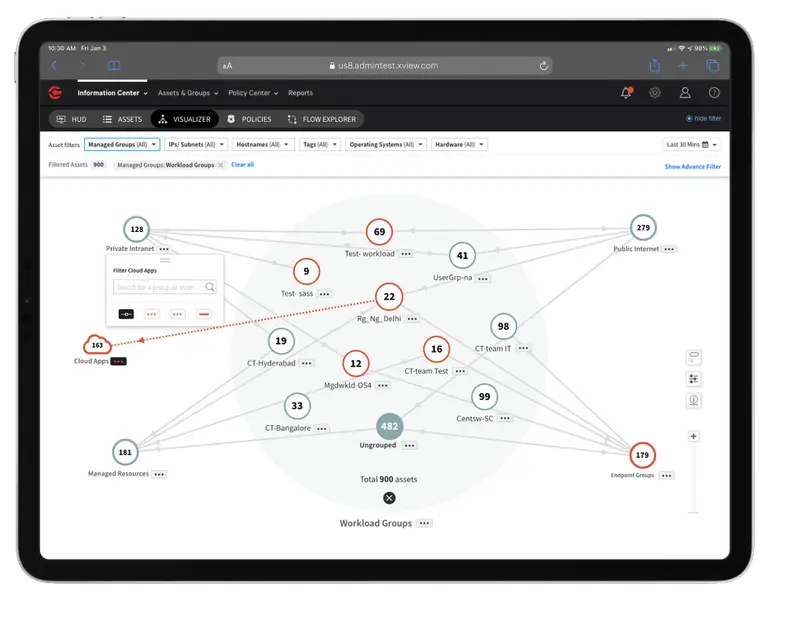
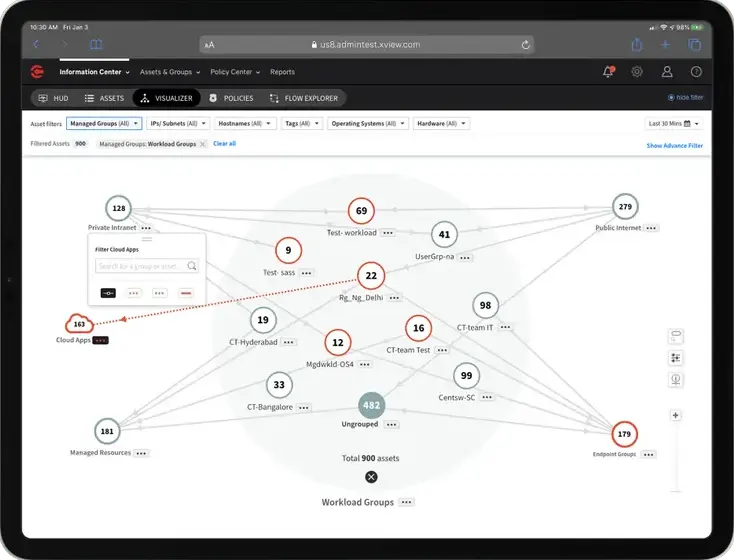
updated project cards

diff --git a/src/components/VideoCard.jsx b/src/components/VideoCard.jsx
@@ -1,0 +1,97 @@
+import React from 'react';
+import Reveal from './Reveal';
+
+const VideoCard = ({
+  thumbnailSrc,
+  youtubeLink,
+  date,
+  title,
+  mainContent,
+  responsibilityLabel,
+  responsibilityContent,
+  casestudyLabel,
+  casestudyLink,
+}) => {
+  const showVideoLink = youtubeLink && youtubeLink !== null;
+  const showCaseStudy = casestudyLink && casestudyLink !== null;
+
+  return (
+    <Reveal>
+      <div className="card-wrapper">
+        <div className="card-thumbnail-wrapper md:!max-w-[45%] md:!min-w-[45%] md:!w-[45%]">
+          {showVideoLink && (
+            <a
+              href={youtubeLink}
+              className="group video-play-btn"
+              target="_blank"
+              rel="noopener noreferrer"
+              aria-label="Play video"
+            >
+              <svg
+                className="video-play-icon group-hover:fill-white min-[360px]:group-w-18 min-[360px]:group-h-18 sm:group-hover:w-9 sm:group-hover:h-9"
+                viewBox="0 0 16 16"
+              >
+                <path d="m11.596 8.697-6.363 3.692c-.54.313-1.233-.066-1.233-.697V4.308c0-.63.692-1.01 1.233-.696l6.363 3.692a.802.802 0 0 1 0 1.393" />
+              </svg>
+              <span className="sr-only">Play video</span>
+            </a>
+          )}
+
+          <img
+            src={thumbnailSrc}
+            className="card-thumbnail-img !w-full"
+            alt="Thumbnail"
+          />
+        </div>
+
+        <div className="card-content-wrapper md:!w-auto md:!flex-1">
+          <div className="card-content card-content-date">{date}</div>
+          {title}
+
+          {mainContent}
+
+          {responsibilityLabel && (
+            <h3 className="card-content card-content-subtitle">
+              {responsibilityLabel}
+            </h3>
+          )}
+          {responsibilityContent && <div>{responsibilityContent}</div>}
+
+          {showCaseStudy ? (
+            <a
+              href={casestudyLink}
+              className="card-content card-content-link"
+              target="_blank"
+              rel="noopener noreferrer"
+            >
+              {casestudyLabel}
+              <svg
+                className="card-link-icon fill-violet-500"
+                viewBox="0 0 16 16"
+              >
+                <path
+                  d="M8.636 3.5a.5.5 0 0 0-.5-.5H1.5A1.5 1.5 0 0 0 0 4.5v10A1.5 1.5 0 0 0 1.5 16h10a1.5 1.5 0 0 0 1.5-1.5V7.864a.5.5 0 0 0-1 0V14.5a.5.5 0 0 1-.5.5h-10a.5.5 0 0 1-.5-.5v-10a.5.5 0 0 1 .5-.5h6.636a.5.5 0 0 0 .5-.5"
+                  strokeWidth="0.8"
+                  strokeLinecap="round"
+                  strokeLinejoin="round"
+                />
+                <path
+                  d="M16 .5a.5.5 0 0 0-.5-.5h-5a.5.5 0 0 0 0 1h3.793L6.146 9.146a.5.5 0 1 0 .708.708L15 1.707V5.5a.5.5 0 0 0 1 0z"
+                  strokeWidth="0.8"
+                  strokeLinecap="round"
+                  strokeLinejoin="round"
+                />
+              </svg>
+            </a>
+          ) : (
+            <p className="card-content card-content-footer">
+              <i>Design process available upon request</i>
+            </p>
+          )}
+        </div>
+      </div>
+    </Reveal>
+  );
+};
+
+export default VideoCard;

diff --git a/src/components/AIVideos.jsx b/src/components/AIVideos.jsx
@@ -1,14 +1,16 @@
 import React from "react";
 import { Link } from "react-router-dom";
 import myPhoto from "../assets/myPhoto.webp";
+import thumbnailExplainerVideo from "../assets/thumbnailExplainerVideo.webp";
 import Footer from "./Footer";
 import Reveal from "./Reveal";
+import VideoCard from "./VideoCard";
 
 const AIVideos = () => {
   return (
     <>
       <div
-        data-page-name="ai-videos"
+        data-page-name="GenAI-Videos"
         x-data="{ pageName: $root.dataset.pageName }"
         x-init="$store.page.name = pageName"
         className="fixed h-[74px] z-2 top-0 self-auto w-full bg-turquoise-500 opacity-0 border-1"
@@ -49,17 +51,29 @@ const AIVideos = () => {
               <ol className="h-full w-full">
                 <li className="ml-0 md:ml-22 font-extrabold text-5xl md:text-7xl mb-4 md:mb-0 text-white">
                   <Reveal>
-                    AI <br />
+                    Gen AI <br />
                     <span className="opacity-60">Videos</span>
                   </Reveal>
                 </li>
                 
                 <li className="mx-0 md:mx-22 py-6 md:py-8 font-medium">
-                  <Reveal>
-                    <div className="p-6 md:p-8 bg-white rounded-2xl md:rounded-3xl shadow-md flex items-center justify-center min-h-[300px] w-full text-turquoise-900 font-sans antialiased text-center">
-                      <p className="text-sm font-medium tracking-wide opacity-80">Coming soon...</p>
-                    </div>
-                  </Reveal>
+                  <VideoCard 
+                    thumbnailSrc={thumbnailExplainerVideo}
+                    youtubeLink="https://www.youtube.com/watch?v=wZ10s6bX4X0"
+                    date="Mar 2026"
+                    title={<h2 className="card-content-title">How I Built a High-Quality Explainer Video Using AI (No Studio, Low Cost)</h2>}
+                    mainContent={<p className="card-content card-content-paragraph">Create a professional explainer video without a studio or large budget. See how Arjun Mehta (AI avatar), motion design, and editing tools come together to simplify the creation of explainer videos for complex AI-powered agentic products.</p>}
+                    responsibilityLabel="Tools used:"
+                    responsibilityContent={
+                      <>
+                          <span className="card-badge">Script &amp; Storyboard + Timeline</span>
+                          <span className="card-badge">Google Whisk for AI Avatar Clips</span>
+                          <span className="card-badge">Adobe After Effects and Premiere Pro</span>
+                      </>
+                    }
+                    casestudyLabel="View Design Approach"
+                    casestudyLink="https://www.dropbox.com/scl/fi/g1m7cdp4u8yve4k8mfh2v/Case-Study-07-How-I-Built-a-High-Quality-Explainer-Video-Using-AI.pdf?rlkey=vzcyihfka1a1ziwczbko90itj&st=du56vaq4&dl=0"
+                  />
                 </li>
               </ol>
             </section>

diff --git a/src/components/About.jsx b/src/components/About.jsx
@@ -1,6 +1,7 @@
 import React from "react";
 import { Tooltip } from "react-tooltip";
 import "react-tooltip/dist/react-tooltip.css";
+// eslint-disable-next-line no-unused-vars
 import { motion } from "framer-motion";
 import { Link } from "react-router-dom";
 import Navbar from "./Navbar";
@@ -8,14 +9,22 @@ import myPhoto from "../assets/myPhoto.webp";
 import college from "../assets/college.webp";
 import designStudio from "../assets/design-studio.webp";
 import productDesign from "../assets/product-design.webp";
+// eslint-disable-next-line no-unused-vars
 import linkArrw from "../assets/external-link-arrow.svg";
+// eslint-disable-next-line no-unused-vars
 import lovableLogo from "../assets/lovable-logo.svg";
+// eslint-disable-next-line no-unused-vars
 import reactIcon from "../assets/react-icon.svg";
+// eslint-disable-next-line no-unused-vars
 import supabaseLogo from "../assets/supabase-logo.svg";
+// eslint-disable-next-line no-unused-vars
 import figmaLogo from "../assets/figma-logo.svg";
+// eslint-disable-next-line no-unused-vars
 import githubLogo from "../assets/github-logo.svg";
+// eslint-disable-next-line no-unused-vars
 import tailwindLogo from "../assets/tailwind-logo.svg";
 import Consultant from "../assets/Consultant.svg";
+// eslint-disable-next-line no-unused-vars
 import thumbnailLeakShield from "../assets/leakshield-thumbnail.webp";
 import Reveal from "./Reveal";
 import Footer from "./Footer";

diff --git a/src/components/ProjectCard.jsx b/src/components/ProjectCard.jsx
@@ -1,4 +1,5 @@
 import React from "react";
+// eslint-disable-next-line no-unused-vars
 import { motion } from "framer-motion";
 import Reveal from './Reveal';
 import thumbnailWealthMgmt from "../assets/thumbnailWealthMgmt.webp";
@@ -87,7 +88,7 @@ const projects = [
     mainContent: (
       <>
         <p className="card-content card-content-paragraph">
-          Lumen AI’s modern logo symbolizes innovation, precision, and automation, using a radiant light motif and gradient tones to reflect its ability to illuminate insights from complex data.
+          Lumen AI's modern logo symbolizes innovation, precision, and automation, using a radiant light motif and gradient tones to reflect its ability to illuminate insights from complex data.
         </p>
       </>
     ),
@@ -134,7 +135,7 @@ const projects = [
     date: "Jan 2021",
     title: (
       <h2 className="card-content-title">
-        Data security & privacy automation
+        Data security &amp; privacy automation
       </h2>
     ),
     titleText: "Data security & privacy automation",
@@ -247,6 +248,7 @@ const ProjectCard = () => {
         (
           {
             thumbnail,
+            thumbnailClassName,
             youtubeLink,
             date,
             title,
@@ -261,6 +263,7 @@ const ProjectCard = () => {
         ) => {
           const showVideoLink = youtubeLink && youtubeLink !== null;
           const showCaseStudy = casestudyLink && casestudyLink !== null;
+          // eslint-disable-next-line no-unused-vars
           const isLumenLogo = "LumenaiLogo";
 
           return (
@@ -290,7 +293,7 @@ const ProjectCard = () => {
 
                 <img
                   src={thumbnailMap[thumbnail]}
-                  className="card-thumbnail-img"
+                  className={`card-thumbnail-img${thumbnailClassName ? ` ${thumbnailClassName}` : ''}`}
                   alt={`Thumbnail of ${titleText}`}
                 />
               </div>

diff --git a/src/components/Navbar.jsx b/src/components/Navbar.jsx
@@ -1,11 +1,14 @@
 import React, { useEffect, useRef, useState } from "react";
+// eslint-disable-next-line no-unused-vars
 import { motion, useMotionValue, useSpring } from "framer-motion";
 import { Link, useLocation } from "react-router-dom";
 import Reveal from "./Reveal";
+// eslint-disable-next-line no-unused-vars
 import myPhoto from "../assets/myPhoto.webp";
 
 const Navbar = () => {
   const [screenWidth, setScreenWidth] = useState(window.innerWidth);
+  // eslint-disable-next-line no-unused-vars
   const [screenHeight, setScreenHeight] = useState(window.innerHeight);
   const [isMobile, setIsMobile] = useState(window.innerWidth < 768); // initialize correctly
 
@@ -44,7 +47,7 @@ const Navbar = () => {
     { label: "About", path: "/about" },
     { label: "GitHub", path: "/github" },
     { label: "Vibe-Coding Apps", path: "/vibe-coding-apps" },
-    { label: "AI Videos", path: "/ai-videos" },
+    { label: "Gen AI Videos", path: "/GenAI-Videos" },
     { label: "Contact", path: "/contact" },
   ];
 
@@ -77,6 +80,7 @@ const Navbar = () => {
       width.set(0);
       opacity.set(0); // Hide the indicator
     }
+  // eslint-disable-next-line react-hooks/exhaustive-deps
   }, [location.pathname]);
 
   const handleMouseEnter = (e) => {

diff --git a/src/components/VideoBg.jsx b/src/components/VideoBg.jsx
@@ -1,12 +1,17 @@
+// eslint-disable-next-line no-unused-vars
 import React, { useEffect, useRef, useState } from 'react';
 import videoBg from '../assets/videoBg.webm';
+// eslint-disable-next-line no-unused-vars
 import useShouldHideVideo from "./useShouldHideVideo";
 
 const VideoBg = () => {
     //const shouldHideVideo = useShouldHideVideo();
       
+    // eslint-disable-next-line no-unused-vars
     const [screenWidth, setScreenWidth] = useState(window.innerWidth);
+      // eslint-disable-next-line no-unused-vars
       const [screenHeight, setScreenHeight] = useState(window.innerHeight);
+      // eslint-disable-next-line no-unused-vars
       const [isMobile, setIsMobile] = useState(window.innerWidth <= 768); // initialize correctly
     
       useEffect(() => {

diff --git a/src/components/VibeCodingApps.jsx b/src/components/VibeCodingApps.jsx
@@ -1,15 +1,19 @@
 import React from "react";
 import { Tooltip } from "react-tooltip";
 import "react-tooltip/dist/react-tooltip.css";
+// eslint-disable-next-line no-unused-vars
 import { motion } from "framer-motion";
 import { Link } from "react-router-dom";
 import Navbar from "./Navbar";
 import myPhoto from "../assets/myPhoto.webp";
+// eslint-disable-next-line no-unused-vars
 import linkArrw from "../assets/external-link-arrow.svg";
 import lovableLogo from "../assets/lovable-logo.svg";
 import reactIcon from "../assets/react-icon.svg";
 import supabaseLogo from "../assets/supabase-logo.svg";
+// eslint-disable-next-line no-unused-vars
 import figmaLogo from "../assets/figma-logo.svg";
+// eslint-disable-next-line no-unused-vars
 import githubLogo from "../assets/github-logo.svg";
 import tailwindLogo from "../assets/tailwind-logo.svg";
 import Consultant from "../assets/Consultant.svg";

diff --git a/src/components/Work.jsx b/src/components/Work.jsx
@@ -1,4 +1,5 @@
 import React from "react";
+// eslint-disable-next-line no-unused-vars
 import { motion } from "framer-motion";
 import Reveal from './Reveal';
 import Consultant from "../assets/Consultant.svg";
@@ -127,7 +128,7 @@ const Work = () => (
       </Reveal>
 
       <div className="work-list">
-        {jobs.map(({ companyName, designation, duration, logo, alt, customSize }) => (
+        {jobs.map(({ companyName, designation, duration, logo, alt }) => (
           <Reveal key={`work-${duration}`}>
           <motion.div key={`${companyName}-${duration}`} id="work-item"
             className="work-wrapper cursor-default overflow-hidden">

diff --git a/src/App.jsx b/src/App.jsx
@@ -44,7 +44,7 @@ const router = createHashRouter([
         ),
       },
       {
-        path: "ai-videos",
+        path: "GenAI-Videos",
         element: (
           <Suspense fallback={<div>Loading...</div>}>
             <AIVideos />

diff --git a/src/components/Contact.jsx b/src/components/Contact.jsx
@@ -1,8 +1,10 @@
 import React from "react";
+// eslint-disable-next-line no-unused-vars
 import { motion } from "framer-motion";
 import { Link } from "react-router-dom";
 import Navbar from "../components/Navbar";
 import myPhoto from "../assets/myPhoto.webp";
+// eslint-disable-next-line no-unused-vars
 import contactBG from "../assets/contact-bg.webp";
 import Consultant from "../assets/Consultant.svg";
 import Reveal from "./Reveal";

diff --git a/src/components/NotFound.jsx b/src/components/NotFound.jsx
@@ -1,11 +1,13 @@
 import React from "react";
 import { Link } from "react-router-dom";
 import { useNavigate } from "react-router-dom";
+// eslint-disable-next-line no-unused-vars
 import myPhoto from "../assets/myPhoto.webp";
 
 const NotFound = () => {
   const navigate = useNavigate();
 
+  // eslint-disable-next-line no-unused-vars
   const handleGoBack = () => {
     navigate(-1); // Navigates one step back in history
   };

diff --git a/src/styles/utilities.css b/src/styles/utilities.css
@@ -227,7 +227,7 @@
   }
 
   .work-duration {
-    @apply relative flex items-center justify-self-start md:justify-self-end text-[12px] md:text-[14px] leading-tight text-turquoise-800 align-text-bottom mt-1 md:mt-0;
+    @apply relative flex items-center justify-self-start md:justify-self-end text-[12px] md:text-[14px] leading-tight text-turquoise-800 align-text-bottom mt-1 md:mt-0 whitespace-nowrap;
   }
 
   .download-btn {